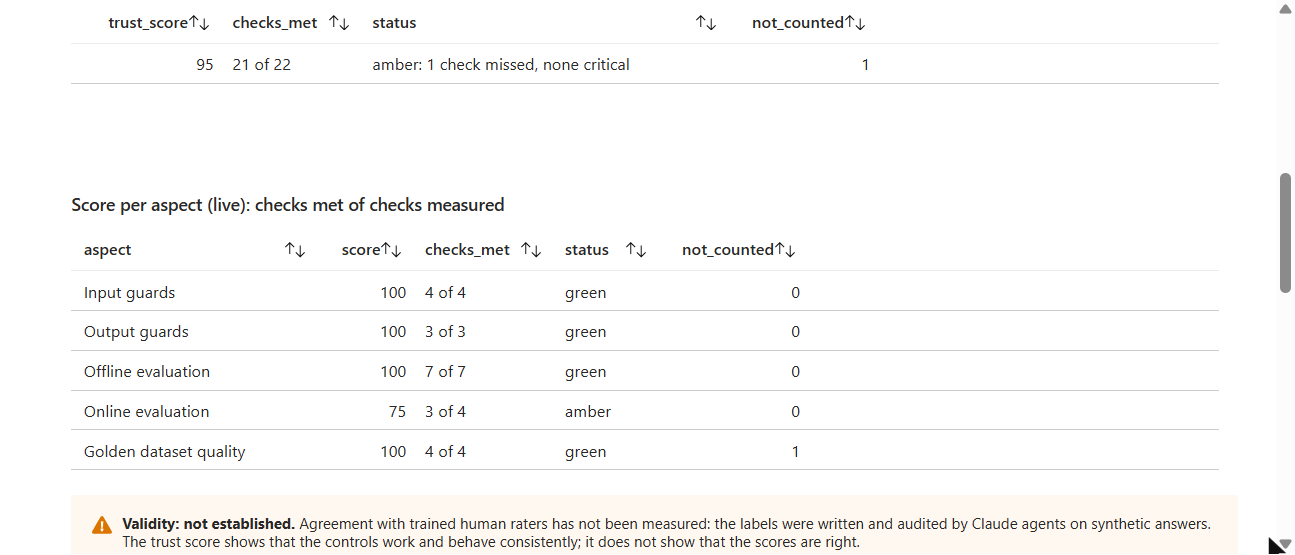
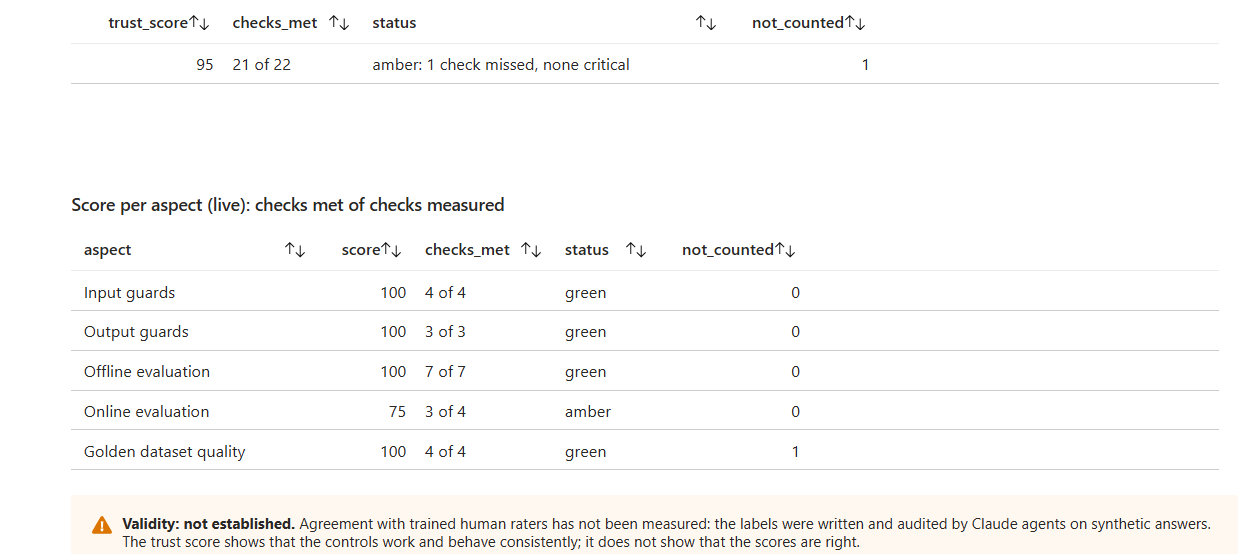
P3-13: review fixes (governance line, halo, pointer, wording)
The governance page no longer says the agent has not seen the workbook
rendered; the blur halo around the boxes in 05 is whitened; the scrollbar
and mouse pointer are cropped out of 12; P3-13 names the lead as checker
and says the portal was only viewed; picture 10's time range is noted.

diff --git a/intent/decisions.md b/intent/decisions.md
@@ -198,4 +198,4 @@ No line here records a human review that did not happen.
 | 2026-10-14 | S9-3 | The README row for S9 and the walkthrough step for the second workbook go into the S9 pull request, not into a records pull request after the owner's apply as the S9 plan first said. The verifier on the S9 branch returned FAIL once: a new test file held literal long dashes and fake email-shaped and host-shaped fixtures, the README and walkthrough edits were outside the plan's file list, and one walkthrough sentence said every row had a source link while the decisions table has none. The fixtures are now assembled at run time, the plan and spec name the two files, the sentence is narrowed, and the provenance gate reads "before every image deploy", because the warm route deploys no new image and skips the check | One pull request fewer before the freeze; the walkthrough is where the owner presents the workbook | agent |
 | 2026-10-14 | S9-4 | **Trust scorecard as the first tab.** At the owner's request, for leadership, the delivery evidence workbook opens on a trust scorecard: 22 checks, gates and SLOs, in five aspects (input guards, output guards, offline evaluation, online evaluation, golden dataset quality), plus one not-measured check, human labels. The trust score is the share of measured checks met, per aspect and overall. A check is critical when a miss means a person may not see an answer they should; a critical miss makes the status red whatever the number, and a critical check with no data in the time range makes the score read insufficient data instead of a number. Live checks read requests and `score` spans; a response the platform guardrail blocked counts as traceable without runs. Offline checks read the newest nightly `eval_run` event and take their state from the gate's own `<metric>_passed` verdict, so the scorecard and the gate cannot disagree; gate values from `evals/thresholds.yaml` appear only in the target text. The stability proof and the dataset checks are snapshot rows; sizes, coverage and provenance are computed from the dataset files. Confidence per response is the agreement of its three runs (high, medium, low), stated as a consistency signal, not a calibrated probability; no confidence field is added to the API, because that changes `src/` and so runs the paid eval gate and a deploy. A warning panel says validity against trained raters is not established. Every scorecard query was run read-only against Application Insights before it was committed. Read on 14 October at about 15:25 UTC over the last 30 days: trust score 95, 21 of 22 checks met, amber, the one miss the live review band (26.5% against 25%, after deliberate injection tests; it read 24.4% on the 45 requests of the morning). The in-session security review of this tab (an AI subagent) rated five findings Important, all fixed before the pull request: offline states re-compared raw values instead of using the gate's verdict; constant rows could make a thin time range read 100; guardrail blocks counted as untraceable; the records named the audience by role; and these figures had no time of reading. Microsoft's guidance is to combine several quality metrics as deployment gates rather than rely on one (https://learn.microsoft.com/azure/well-architected/ai/test, https://learn.microsoft.com/azure/foundry/concepts/observability) | The owner asked in the session for quality scores per aspect, an overall score and a confidence per response, and chose this design after seeing it with live figures | owner (the request and the choice of design), agent (the build) |
 | 2026-10-14 | S9-5 | **The owner applied the observability deployments**, from main after #21. (1) Tiles 5 and 6 have been in the live operational workbook since an earlier deployment of `infra/observability.bicep` at 14:41 UTC (named `observability-tile5-20261014`), which also left the action group and both alert rules as they are now, with the availability query corrected in S6-8. It was not made by this session; the activity log shows the same signed-in Azure CLI user as the owner's applies, so who ran it is not recorded here. At about 16:06 UTC the owner's apply of the same file rewrote the same six tiles; its run reports Failed because the action-group update was refused with `EmailAddressIsNotValid`: the line that sets the alert address was not run, so the address was empty (the owner's terminal shows it). The refused update changed nothing. (2) At about 16:06 UTC `infra/sdlc_dashboard.bicep` succeeded but ran with an empty `applicationInsightsName`, so the delivery evidence workbook was bound to no resource and was not listed under Application Insights. The lead's first readback checked only that a binding was present, not that it named the component, and told the owner both workbooks were bound; the verifier found the empty name. The owner applied the file again at 16:25 UTC with the component named in full, and the readback now checks the name: both workbooks are bound to the Application Insights component. (3) Read back read-only: the delivery evidence workbook's items equal its file on main; the operational workbook's equal its file as merged in #21, because #22 changed tile 6's no-data message after the apply, which reaches the portal only with one more apply (optional). (4) Both Bicep files now refuse an empty `applicationInsightsName`, and `observability.bicep` an empty `alertEmail` (`@minLength(1)`), with tests, so a blank variable fails the deployment at validation instead of binding to nothing or applying in part. A name that is not empty but wrong still binds to nothing; that is not guarded. (5) In this branch P3-12 was corrected in place for the nit from the CI review of #22 (its item (2) now says the lists run to #20); its items (3) and (4) describe the state before this apply. The README verifier count and the count of Important findings from in-session reviews are now stated up to #22 (twenty FAILs, with the three on #21; twenty-three Important findings, with the seven on #21 and the second on #19, which the README had counted as one); the verifier's verdicts on this records branch, with every reason, are listed in its pull request description and not here, because each new verdict would otherwise make this row stale; the in-session security reviews of this branch rated three findings Important (the operational workbook's readback against main, a stale plan line, and the README count of Important findings), each corrected. This closes the deployment story of P3-10, P3-11 and S9-1. The agent has not seen either workbook rendered; the owner's screenshots are still to come | The apply is the owner's (CLAUDE.md, decision P3-3) | owner (the applies), agent (the readback, the guard and the record) |
-| 2026-10-14 | P3-13 | **The four portal screenshots**, `05-foundry-deployment.png`, `06-appinsights-trace.png`, `10-dashboard.png` and a new `12-delivery-evidence.png`, were taken by the lead at the owner's request, in the owner's own Chrome through the Claude in Chrome extension, signed in to the portal with the owner's account. The lead chose the account the owner named in the sign-in page's list and typed no password. This departs from P3-5 (Edge with a fresh profile), because the portal pages need the owner's sign-in. Only the panel each step points at was captured, so the address bar, the portal header and the account menu are out of every picture. `05` and `06` are each joined from captures of one page at different scroll positions, because the panel is taller than the screen: the three captures of `06` match pixel for pixel where they overlap, and the two of `05` meet at a divider line copied from the page. In `05` the endpoint and the two account rows were blurred in the page before the capture and then painted over with solid boxes, and in `06` the request id is painted over, so no identifier can be recovered. `06` is a live request scored 1 and sent for review for `adverse_score`, with all 21 `scorer.*` properties; `10` is tile 1 of the operational workbook; `12` is the trust scorecard of the delivery evidence workbook (95, 21 of 22 checks met, amber). Each was checked against the list in `docs/screenshots/README.md`. The lead saw tile 1 and the trust scorecard rendered in the portal; the rendering of tiles 2 to 6 is still for the owner to check | The owner asked for it, and the portal pages need the owner's sign-in. A signed-in browser is where a picture is most likely to leak something, so each picture is cropped to its panel and every identifier is covered | owner (the request), agent (the pictures and the record) |
+| 2026-10-14 | P3-13 | **The four portal screenshots**, `05-foundry-deployment.png`, `06-appinsights-trace.png`, `10-dashboard.png` and a new `12-delivery-evidence.png`, were taken by the lead at the owner's request, in the owner's own Chrome through the Claude in Chrome extension, signed in to the portal with the owner's account. The lead chose the account the owner named in the sign-in page's list and typed no password. This departs from P3-5 (Edge with a fresh profile), because the portal pages need the owner's sign-in. Only the panel each step points at was captured, so the address bar, the portal header and the account menu are out of every picture. `05` and `06` are each joined from captures of one page at different scroll positions, because the panel is taller than the screen: the three captures of `06` match pixel for pixel where they overlap, and the two of `05` meet at a divider line copied from the page. In `05` the endpoint and the two account rows were blurred in the page before the capture and then painted over with solid boxes, and in `06` the request id is painted over, so no identifier can be recovered. `06` is a live request scored 1 and sent for review for `adverse_score`, with all 21 `scorer.*` properties; `10` is tile 1 of the operational workbook; `12` is the trust scorecard of the delivery evidence workbook (95, 21 of 22 checks met, amber). The lead checked each against the list in `docs/screenshots/README.md`. The portal was used only to take the pictures the plan asks for, not to inspect Azure in place of the read-only `azure` MCP server: the pages were only viewed, the blur was a style change in the browser, and nothing was changed in the portal or in Azure. The lead saw tile 1 and the trust scorecard rendered in the portal; the rendering of tiles 2 to 6 is still for the owner to check | The owner asked for it, and the portal pages need the owner's sign-in. A signed-in browser is where a picture is most likely to leak something, so each picture is cropped to its panel and every identifier is covered | owner (the request), agent (the pictures and the record) |

diff --git a/docs/screenshots/README.md b/docs/screenshots/README.md
@@ -13,7 +13,7 @@ The fallback pictures for the [walkthrough](../walkthrough.md), one per step. Th
 | `07-weak-prompt-pr.png` | The weak-prompt pull request: the comment the required `evals` check posted, "Eval gate: FAIL", with every metric and the three it breached | 4 | Lead | 14 October 2026 |
 | `08-ci-run.png` | One `ci` run, the one on #16, green. GitHub shows a run's steps only to signed-in users, so the steps are on the run's page, not in the picture | 5 | Lead | 14 October 2026 |
 | `09-deploy-approval.png` | The first deploy run (for #16): both jobs green, and "Deployment protection rules" naming the owner as approver of `demo`. The provenance step is inside the `deploy` job's log | 5 | Lead | 14 October 2026 |
-| `10-dashboard.png` | Tile 1 of the operational workbook with live data: requests, failures, availability and p50 and p95 latency against the 6 s SLO, and the latency chart. The figures under the chart are the portal's sums of the plotted points, not figures to quote. All six tiles have been live since 14 October (decision S9-5) | 6 | Lead, in the owner's signed-in browser (decision P3-13) | 14 October 2026 |
+| `10-dashboard.png` | Tile 1 of the operational workbook with live data: requests, failures, availability and p50 and p95 latency against the 6 s SLO, and the latency chart. Its table covers a wider time range than the 45 scored requests quoted elsewhere, so its figures differ from theirs. The figures under the chart are the portal's sums of the plotted points, not figures to quote. All six tiles have been live since 14 October (decision S9-5) | 6 | Lead, in the owner's signed-in browser (decision P3-13) | 14 October 2026 |
 | `11-pull-requests.png` | The pull request list with each one's check results (the verifier verdicts and review findings are comments inside each pull request) | 7 | Lead | 14 October 2026 |
 | `12-delivery-evidence.png` | The delivery evidence workbook's trust scorecard: trust score 95, 21 of 22 checks met, amber; the score per aspect; the validity warning | 6 | Lead, in the owner's signed-in browser (decision P3-13) | 14 October 2026 |
 

diff --git a/docs/governance.md b/docs/governance.md
@@ -15,7 +15,7 @@ The demo runs on synthetic data and is not for use in real hiring decisions. Its
 
 ## 2. Provider requirements: Articles 9 to 15
 
-Articles 9 to 15 are requirements on the system that the **provider** must meet (Article 16). The table gives the demo control for each and where to see it. "Tile" means a tile of the dashboard workbook, whose queries are in [dashboards/queries.kql](../dashboards/queries.kql) and whose layout is in [infra/workbook.json](../infra/workbook.json); the queries behind the first four tiles returned data when run with the read-only CLI against telemetry from the deployed application on 14 October, and tiles 5 and 6, added the same day (decision P3-10), have been in the live workbook since a deployment of `infra/observability.bicep` at 14:41 UTC on 14 October (decision S9-5); the deployed workbook was read back and equals the file as merged in #21 (tile 6's no-data message from #22 is not live yet), but the agent has not seen it rendered in the portal.
+Articles 9 to 15 are requirements on the system that the **provider** must meet (Article 16). The table gives the demo control for each and where to see it. "Tile" means a tile of the dashboard workbook, whose queries are in [dashboards/queries.kql](../dashboards/queries.kql) and whose layout is in [infra/workbook.json](../infra/workbook.json); the queries behind the first four tiles returned data when run with the read-only CLI against telemetry from the deployed application on 14 October, and tiles 5 and 6, added the same day (decision P3-10), have been in the live workbook since a deployment of `infra/observability.bicep` at 14:41 UTC on 14 October (decision S9-5); the deployed workbook was read back and equals the file as merged in #21 (tile 6's no-data message from #22 is not live yet). The lead has seen tile 1 rendered in the portal (decision P3-13), but not tiles 2 to 6.
 
 | Requirement area | Demo control | Where to see it |
 |---|---|---|

diff --git a/docs/verification.md b/docs/verification.md
@@ -94,4 +94,4 @@ Every test named here passed in the run above, except the three start-up tests, 
 
 GitHub state (the ruleset, the `demo` reviewer, review comments, CodeQL, the waiting deploy run), Azure state (every deployed resource, the workbook as rendered, the alert email), and all live behaviour (the live URL, a real guardrail block, the page in a browser).
 
-The Phase 3 re-check saw the GitHub state it cites, the deployed app's answers and its telemetry. It still did not see the workbook as rendered in the portal or a real guardrail block. A test alert reached the owner's email after the owner confirmed the address (decision P3-7). CodeQL default setup was switched on by the owner on 14 October (Python and GitHub Actions), and its first analysis passed.
+The Phase 3 re-check saw the GitHub state it cites, the deployed app's answers and its telemetry. It still did not see the workbook as rendered in the portal or a real guardrail block. Later the same day the lead saw tile 1 and the trust scorecard rendered, when it took the portal screenshots (decision P3-13). A test alert reached the owner's email after the owner confirmed the address (decision P3-7). CodeQL default setup was switched on by the owner on 14 October (Python and GitHub Actions), and its first analysis passed.
